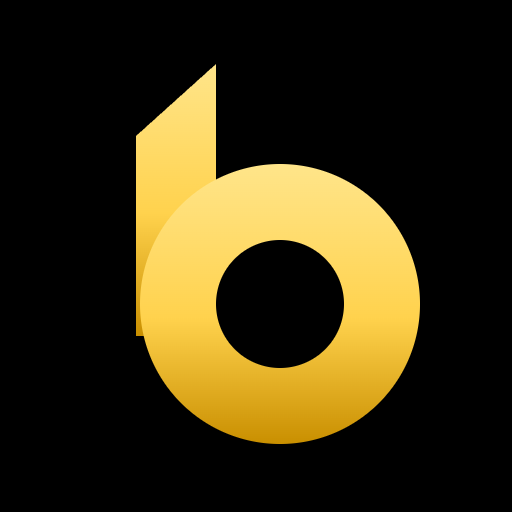
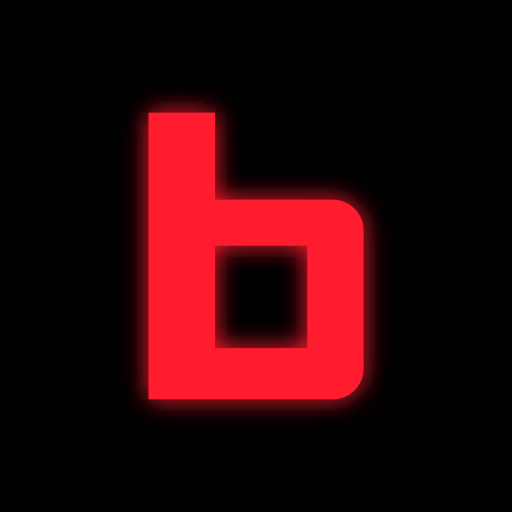
Red b brand mark and full OG/Twitter card for link unfurls
Replace gold b with trademark red b (#ff1f2d) in favicon, header logo and
PNG icons. Add 1200x630 og-image.jpg, og:image* tags and
summary_large_image Twitter card so bmoviesx.com unfurls on X.

Changed region(s): [[0.25, 0.125, 0.8438, 0.875]]

diff --git a/index.html b/index.html
@@ -11,13 +11,22 @@
 <meta property="og:site_name" content="bMoviesX">
 <meta property="og:title" content="bMoviesX · Upload your movies. Mint them on Bitcoin.">
 <meta property="og:description" content="Put your films on chain from your own bWalletX. You keep the credit and the token.">
-<meta name="twitter:card" content="summary">
+<meta property="og:image" content="https://bmoviesx.com/og-image.jpg">
+<meta property="og:image:secure_url" content="https://bmoviesx.com/og-image.jpg">
+<meta property="og:image:type" content="image/jpeg">
+<meta property="og:image:width" content="1200">
+<meta property="og:image:height" content="630">
+<meta property="og:image:alt" content="bMoviesX: the red b logo beside two film stills. Upload your movies. Mint them on Bitcoin.">
+<meta name="twitter:card" content="summary_large_image">
 <meta name="twitter:site" content="@bMoviesX">
 <meta name="twitter:title" content="bMoviesX · Upload your movies. Mint them on Bitcoin.">
 <meta name="twitter:description" content="Put your films on chain from your own bWalletX. You keep the credit and the token.">
+<meta name="twitter:image" content="https://bmoviesx.com/og-image.jpg">
+<meta name="twitter:image:alt" content="bMoviesX: the red b logo beside two film stills. Upload your movies. Mint them on Bitcoin.">
 <meta name="theme-color" content="#000000">
 <link rel="manifest" href="/manifest.json">
 <link rel="icon" href="/favicon.svg" type="image/svg+xml">
+<link rel="icon" href="/icon-192.png" type="image/png" sizes="192x192">
 <link rel="apple-touch-icon" href="/apple-touch-icon.png">
 <link rel="preconnect" href="https://fonts.googleapis.com">
 <link rel="preconnect" href="https://fonts.gstatic.com" crossorigin>
